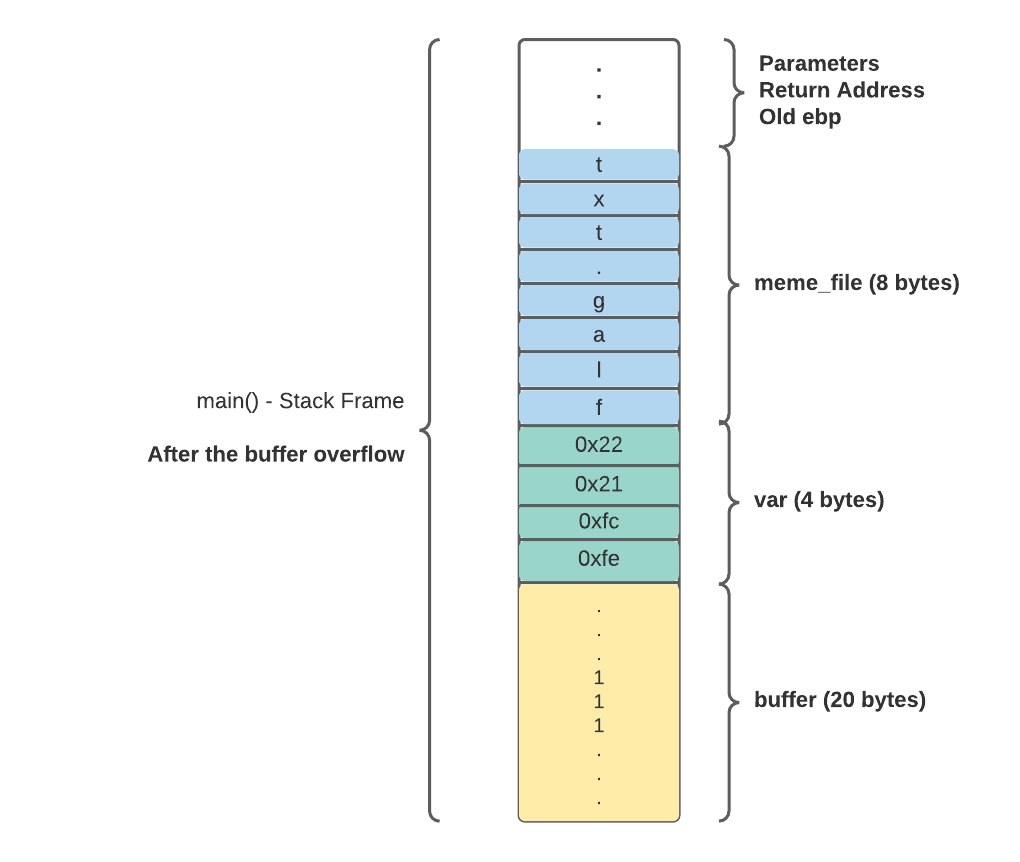
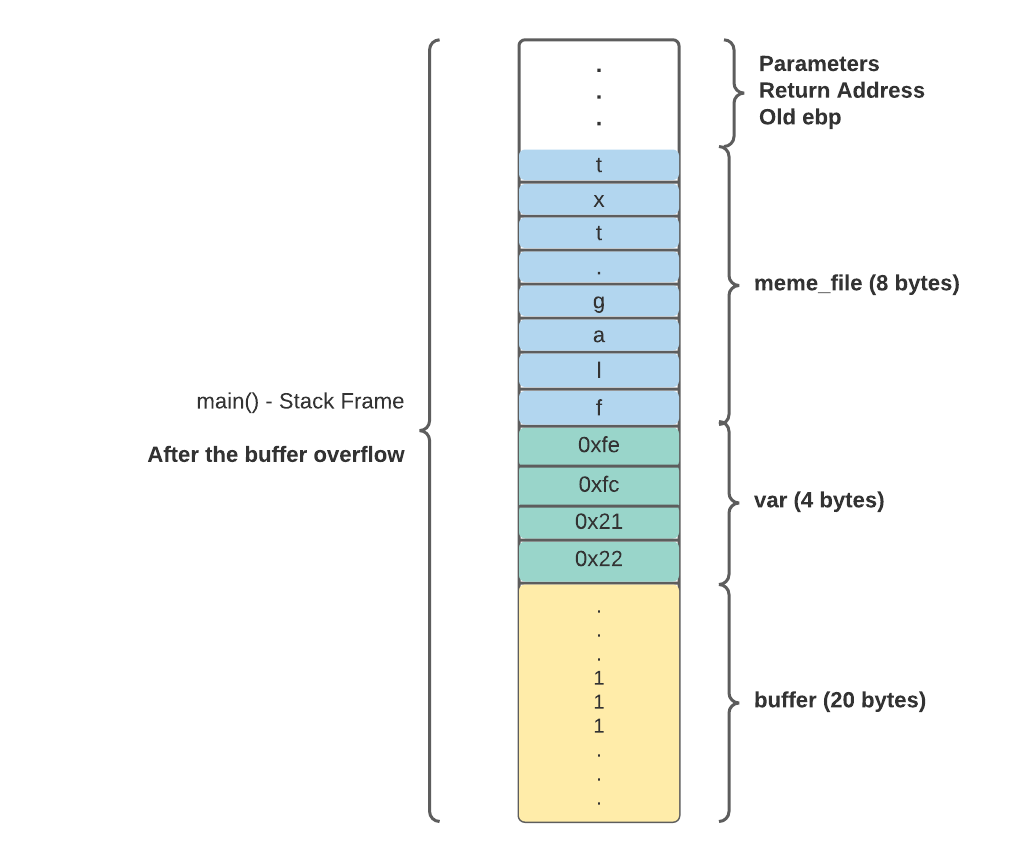
Modify: Stack images.

diff --git a/LOGBOOK5.md b/LOGBOOK5.md
@@ -68,7 +68,6 @@ By using the `file` and `checksec` commands we observe that the file protections
   <figcaption>Figure 4. Checking file protections</figcaption>
 </figure>
 
-
 Answering the utterance questions:
 - Which changes were made?
     -  A 4-byte variable `var` was initialized with some content (`"\xef\xbe\xad\xde"`) and an `if` which compares its content to `0xfefc2122` was also added. Therefore, only by entering the `if` we are able to read the contents of the file.
@@ -77,11 +76,9 @@ Answering the utterance questions:
 - Is it possible to overcome that mitigation by using a technique similar to the one used before?
     - As you might have guessed from what was already written, yes.
 
-The exploit script was built from the script provided and it basically alters the stack so that it stays as in the following picture:
-
 <figure align="center">
-  <img src="/images/week5/challenge2_2.png" alt="my alt text"/>
-  <figcaption>Figure 5. main() Stack Frame after the exploit execution</figcaption>
+  <img src="/images/week5/challenge2_4.png" alt="my alt text"/>
+  <figcaption>Figure 5. main() Stack Frame before the exploit execution</figcaption>
 </figure>
 
 The python exploit used was the following:
@@ -102,13 +99,20 @@ r.sendline(b"1" * 20 + b"\x22\x21\xfc\xfe" + b"flag.txt")
 r.interactive()
 ```
 
-Notice the change applied in line 12 which is the 32 bytes string used to perform the buffer overflow.
+Notice the change applied in line 12 which is the 32 bytes string used to perform the buffer overflow. The first 20 bytes are just garbage, the following 4 are used to alter `var` to `0xfefc2122` and the final 8 bytes set `meme_file` to `flag.txt`.
+
+The exploit script was built from the script provided and it basically alters the stack so that it stays as in the following picture:
+
+<figure align="center">
+  <img src="/images/week5/challenge2_2.png" alt="my alt text"/>
+  <figcaption>Figure 6. main() Stack Frame after the exploit execution</figcaption>
+</figure>
 
 After the script execution, we finally got our flag!
 
 <figure align="center">
   <img src="/images/week5/challenge2_3.png" alt="my alt text"/>
-  <figcaption>Figure 6. Getting the flag after exploit execution</figcaption>
+  <figcaption>Figure 7. Getting the flag after exploit execution</figcaption>
 </figure>
 
 # SEED Lab Tasks
@@ -123,14 +127,14 @@ When running the code, we noticed that a shell prompt was given, allowing us to 
 
 <figure align="center">
   <img src="/images/week5/task1_1.png" alt="my alt text"/>
-  <figcaption>Figure 7. `call_shellcode.c` program execution</figcaption>
+  <figcaption>Figure 8. `call_shellcode.c` program execution</figcaption>
 </figure>
 
 Including the aforementioned `setuid(0)` shellcode we get a root shell.
 
 <figure align="center">
   <img src="/images/week5/task1_2.png" alt="my alt text"/>
-  <figcaption>Figure 8. `call_shellcode.c` program execution with `setuid(0)`</figcaption>
+  <figcaption>Figure 9. `call_shellcode.c` program execution with `setuid(0)`</figcaption>
 </figure>
 
 ## Task 2
@@ -141,7 +145,7 @@ To proceed to the next task and develop an exploit, we first compiled the code a
 
 <figure align="center">
   <img src="/images/week5/task2.png" alt="my alt text"/>
-  <figcaption>Figure 9. Compilation of the program.</figcaption>
+  <figcaption>Figure 10. Compilation of the program.</figcaption>
 </figure>
 
 
@@ -159,12 +163,12 @@ In order to do an exploit, we need to know the difference between the buffer sta
 
 <figure align="center">
   <img src="/images/week5/task3_2.png" alt="my alt text"/>
-  <figcaption>Figure 10. Running the program using gdb.</figcaption>
+  <figcaption>Figure 11. Running the program using gdb.</figcaption>
 </figure>
 
 <figure align="center">
   <img src="/images/week5/task3_3.png" alt="my alt text"/>
-  <figcaption>Figure 11. ebp and buffer addresses.</figcaption>
+  <figcaption>Figure 12. ebp and buffer addresses.</figcaption>
 </figure>
 
 - ``ebp``: **0xffffc998**
@@ -174,7 +178,7 @@ Now we can calculate the difference (0xffffc998 - 0xffffc92c), which is **108 by
 
 <figure align="center">
   <img src="/images/week5/task3_4.png" alt="my alt text"/>
-  <figcaption>Figure 12. Stack disposition.</figcaption>
+  <figcaption>Figure 13. Stack disposition.</figcaption>
 </figure>
 
 As we know how the stack frame disposition should be, we now know that the return address is located in the address next to the ebp, so from the start of the `buffer` to the return address, there is a 108+4=**112** bytes difference in the stack.
@@ -225,19 +229,19 @@ The ``ret`` (value of the return address) could be calculated by using the ``ebp
 
 <figure align="center">
   <img src="/images/week5/task3_7.png" alt="my alt text"/>
-  <figcaption>Figure 13. Stack with and without gdb.</figcaption>
+  <figcaption>Figure 14. Stack with and without gdb.</figcaption>
 </figure>
 
 So we used this value as a reference and tried to add a larger offset to the return address value, and, in this case, by adding an additional 144 bytes, the exploit worked and we could use the root shell.
 
 <figure align="center">
   <img src="/images/week5/task3_5.png" alt="my alt text"/>
-  <figcaption>Figure 14. Running the program with exploit on gdb.</figcaption>
+  <figcaption>Figure 15. Running the program with exploit on gdb.</figcaption>
 </figure>
 
 > **Note**: we noticed that, when using `gdb`, the shell will not run with root privileges, regardless of the program ownership or Set-UID bit and line in the shellcode. This is because the debugger always requires the same privileges as the program in order to debug it.
 
 <figure align="center">
   <img src="/images/week5/task3_6.png" alt="my alt text"/>
-  <figcaption>Figure 15. Running the program with exploit without gdb.</figcaption>
+  <figcaption>Figure 16. Running the program with exploit without gdb.</figcaption>
 </figure>
